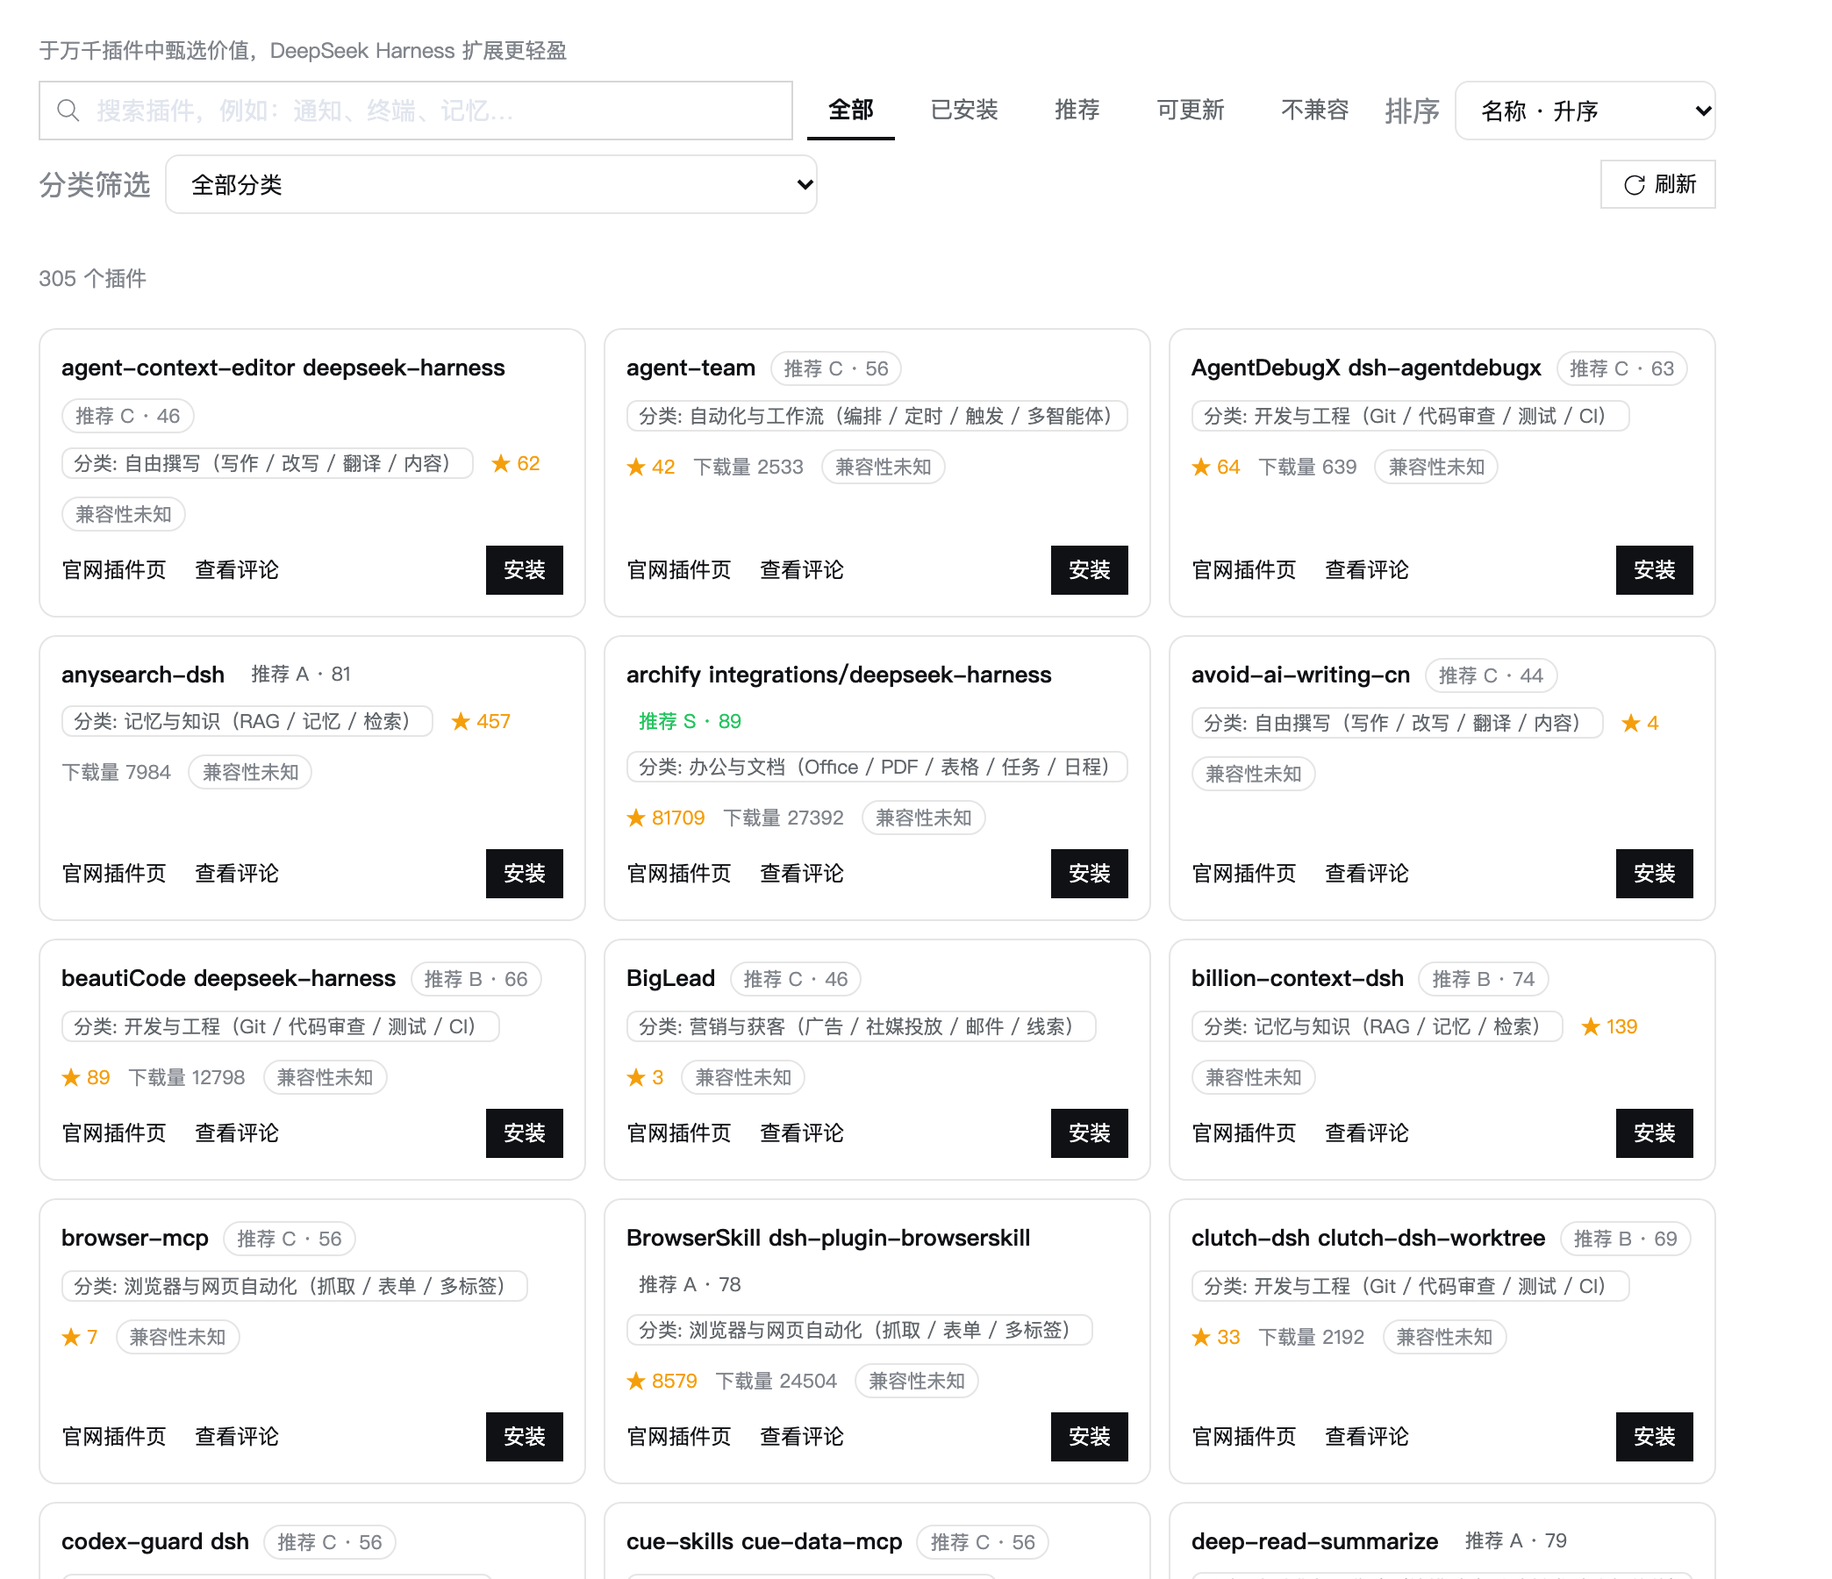
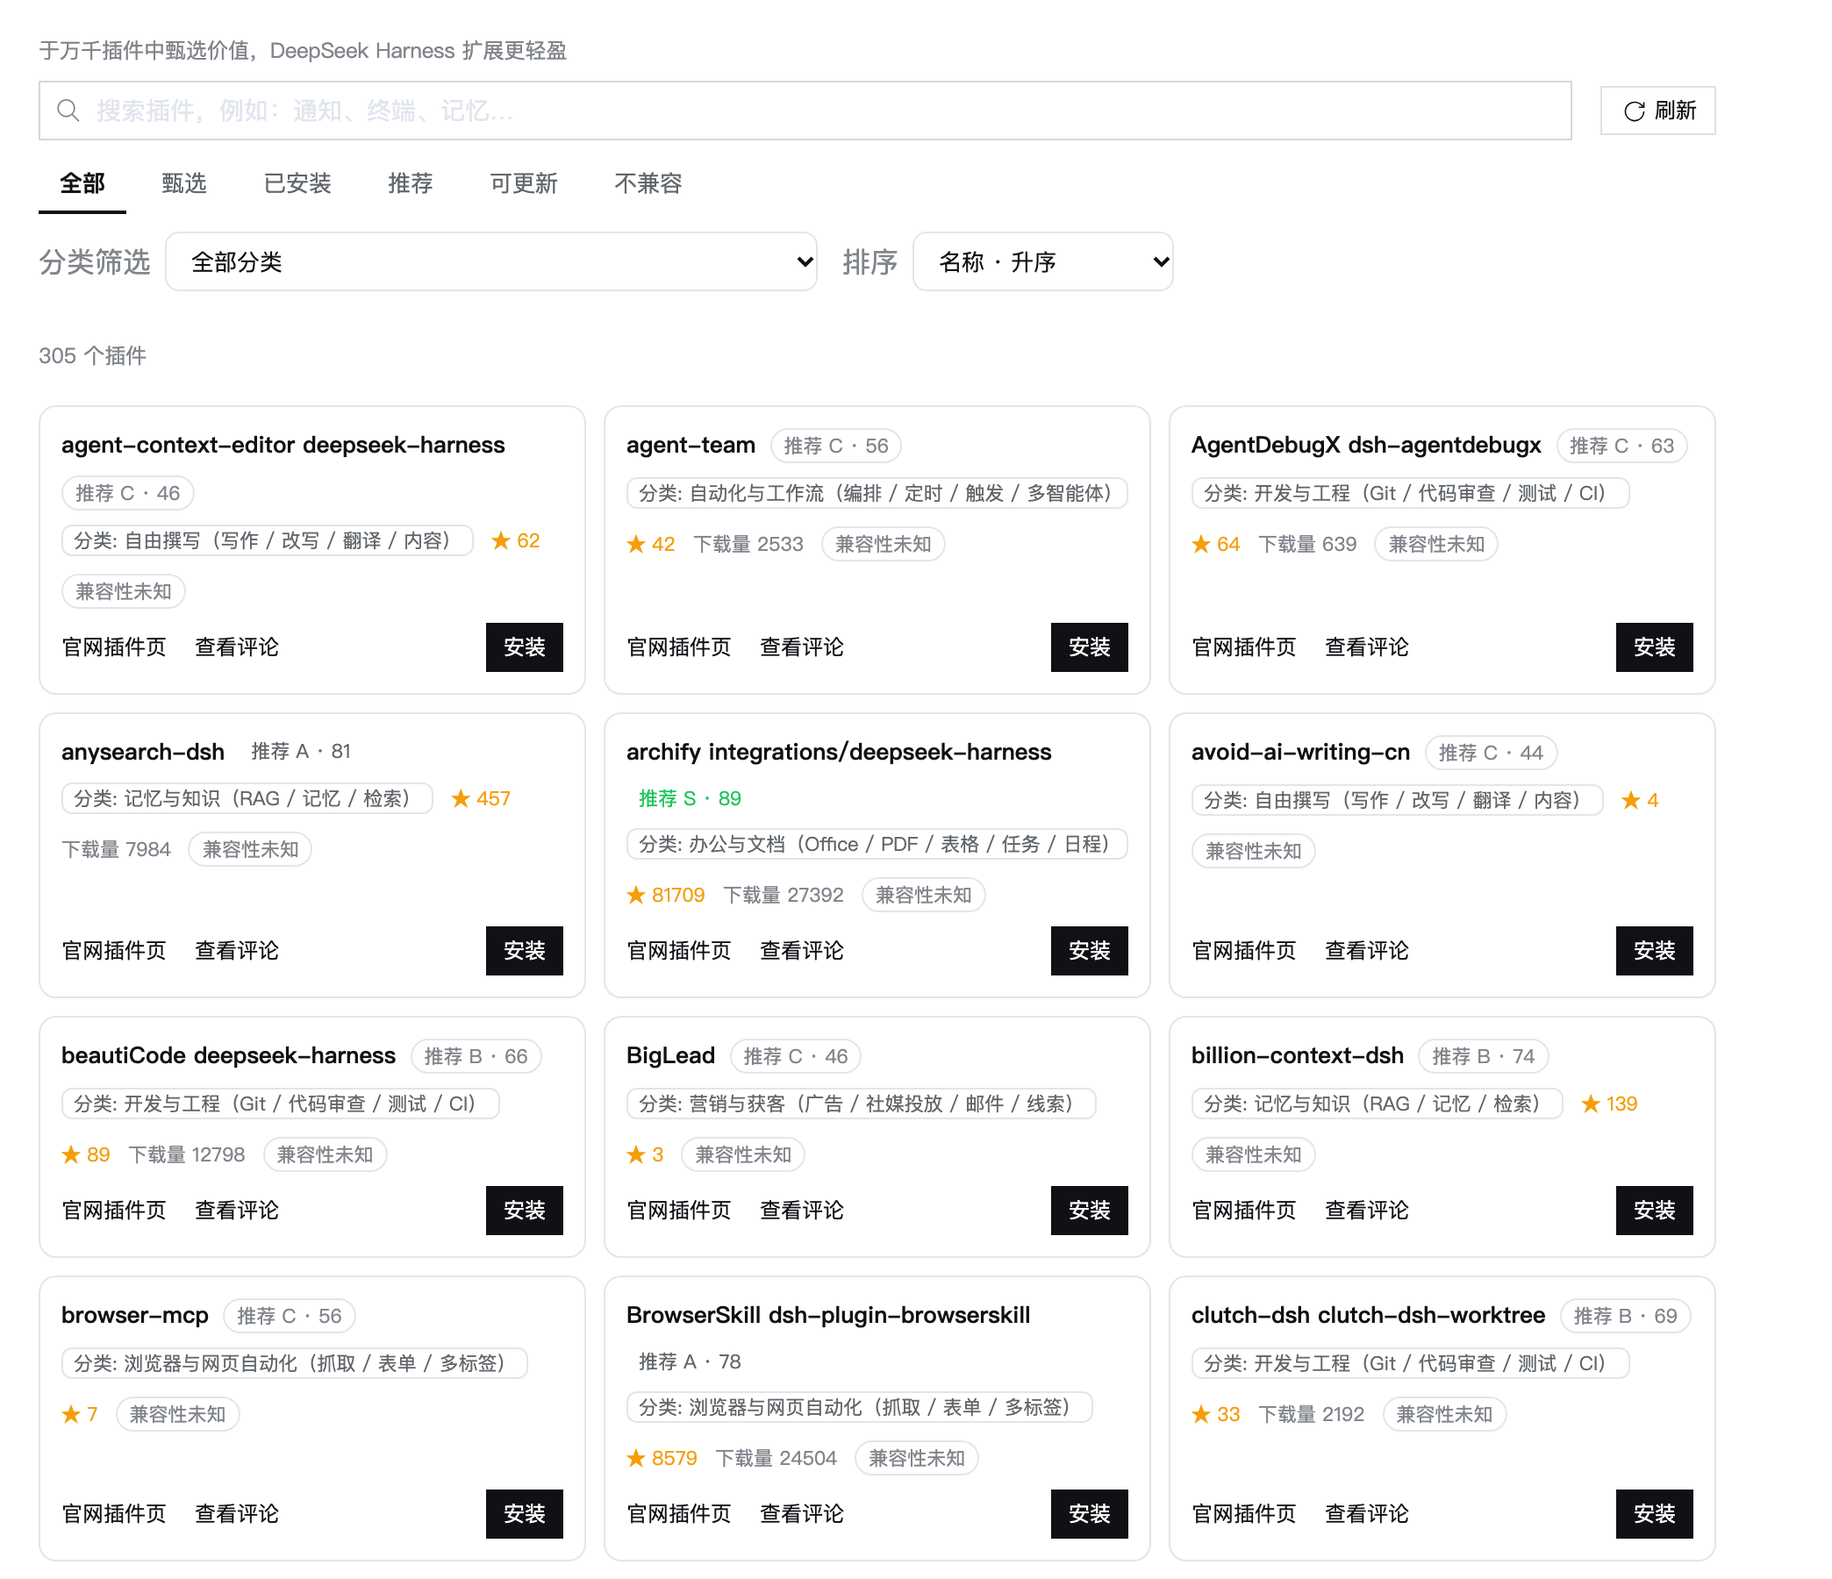
Promote the featured category to a chip and stop the toolbar from wrapping
Two layout requirements from the field. The site's front page lists categories as
chips with 甄选 pinned first, while the panel had it only inside a selector — so
the category the site features was invisible until you opened a dropdown.

- The FIRST entry of the published vocabulary is now a chip right after 「全部」,
  and it is a toggle sharing one state with the selector, so either entry explains
  the other. Promoting "the first entry" rather than hard-coding 甄选 means the
  site can move its featured category by reordering the vocabulary.
- The toolbar is three deliberate lines (search · chips · controls) instead of one
  wrapping flex row: at some widths the wrapping row pushed 「分类筛选」 onto a line
  of its own (measured: 分类筛选 top=88 vs 排序 top=46). The controls line is
  `flex-wrap:nowrap` and the chip line scrolls horizontally instead of wrapping.
- The screenshot probe now reports both selects' `top`, so the same-line
  requirement is measured rather than asserted in prose.

Rebuild before trusting the images: the probe renders the built bundle, and the
first verification run showed the previous layout because `src/` had been edited
without `npm run build`.

diff --git a/tests/client-market.test.ts b/tests/client-market.test.ts
@@ -1154,3 +1154,114 @@ describe('Discover — the category selector browses the site vocabulary', () =>
     expect(host.textContent).toContain('切到「全部」')
   })
 })
+
+describe('Discover — the featured category is a chip, and the controls share a line', () => {
+  /**
+   * Two layout requirements from the field:
+   *  1. the site's featured category (甄选, first in the published vocabulary)
+   *     must be visible WITHOUT opening a selector — the front page lists
+   *     categories as chips with 甄选 pinned first, so the panel promotes the
+   *     first vocabulary entry into the chip row right after 「全部」;
+   *  2. 「分类筛选」 and 「排序」 must sit on one line — a wrapping toolbar dropped
+   *     the category selector onto a line of its own at some widths.
+   */
+  const ROWS = [
+    { key: 'sumarilkkxx/dsh-atlas', name: 'dsh-atlas', owner: 'sumarilkkxx', category: 'curated', stars: 12 },
+    { key: 'alpha/dsh-spend', name: 'dsh-spend', owner: 'alpha', category: 'cost', stars: 9 },
+  ]
+  const TABLE = [
+    { id: 'curated', label: '甄选', labelEn: 'Featured', count: 2 },
+    { id: 'cost', label: '费用与额度', labelEn: 'Cost', count: 1 },
+  ]
+
+  function installStub(): void {
+    globalThis.fetch = (async (input: RequestInfo | URL, init?: RequestInit) => {
+      const url = String(input)
+      calls.push({ url, method: init?.method ?? 'GET' })
+      if (url.includes('/registry')) return json({ registry: { plugins: ROWS, count: ROWS.length, categories: TABLE } })
+      if (url.includes('/installed')) return json(INVENTORY)
+      if (url.includes('/updates')) return json([])
+      if (url.includes('/discovery-compatibility')) return json({ results: [] })
+      if (url.includes('/status')) {
+        return json({
+          boot: 'test-boot', version: '0.1.1', channel: 'stable', region: 'global', profile: 'web',
+          busy: false, progress: { active: false }, pnpm: { ok: true },
+          restart: { allowed: false, debugger: false, scheduled: false }, installed: [],
+        })
+      }
+      return json({ ok: true })
+    }) as typeof fetch
+  }
+
+  async function mountIn(language: 'zh' | 'en'): Promise<HTMLElement> {
+    installStub()
+    const dictionary = language === 'en' ? en : zh
+    const localeT = (key: string, params?: Record<string, string | number>): string => translate(dictionary, key, params)
+    const container = document.getElementById('host') as HTMLElement
+    root = createRoot(container)
+    root.render(createElement(MarketSection, {
+      t: localeT,
+      locale: {
+        register: () => undefined,
+        bind: () => localeT,
+        subscribe: () => () => undefined,
+        getSnapshot: () => ({ active: language }),
+      },
+      theme: { getTheme: () => ({ id: 'dark' }), setTheme: () => undefined },
+      themeStore: { subscribe: () => () => undefined, getSnapshot: () => ({ id: 'dark' }), getServerSnapshot: () => ({ id: 'dark' }) },
+    }))
+    await flush()
+    return container
+  }
+
+  /** The chip row, then the chip whose label matches. */
+  function chip(host: HTMLElement, label: string): HTMLButtonElement | undefined {
+    return [...host.querySelectorAll('button[aria-pressed]')]
+      .find(button => (button.textContent ?? '').trim() === label) as HTMLButtonElement | undefined
+  }
+
+  it('lists 甄选 second, right after 全部', async () => {
+    const host = await mountIn('zh')
+    const labels = [...host.querySelectorAll('[role="group"] button')].map(button => (button.textContent ?? '').trim())
+    expect(labels.slice(0, 3)).toEqual(['全部', '甄选', '已安装'])
+  })
+
+  it('localizes the featured chip and toggles the filter from it', async () => {
+    const host = await mountIn('en')
+    const featured = chip(host, 'Featured')
+    expect(featured).toBeDefined()
+    featured?.click()
+    await flush()
+    expect(cardTitles(host)).toEqual(['dsh-atlas'])
+    expect(chip(host, 'Featured')?.getAttribute('aria-pressed')).toBe('true')
+    // Clicking it again clears the filter (the chip is a toggle, not a one-way).
+    chip(host, 'Featured')?.click()
+    await flush()
+    expect(cardTitles(host).length).toBe(2)
+  })
+
+  it('keeps the chip and the selector in sync', async () => {
+    const host = await mountIn('zh')
+    const select = host.querySelector('select[aria-label="分类筛选"]') as HTMLSelectElement
+    selectOption(select, 'curated')
+    await flush()
+    expect(chip(host, '甄选')?.getAttribute('aria-pressed')).toBe('true')
+    // 「全部」 clears the category too — it is the "no filter" entry.
+    chip(host, '全部')?.click()
+    await flush()
+    expect((host.querySelector('select[aria-label="分类筛选"]') as HTMLSelectElement).value).toBe('')
+  })
+
+  it('puts 分类筛选 and 排序 on one non-wrapping line', async () => {
+    const host = await mountIn('zh')
+    const category = host.querySelector('select[aria-label="分类筛选"]')
+    const sort = host.querySelector('select[aria-label="排序"]') ?? host.querySelector('select[aria-label="Sort"]')
+    expect(category).not.toBeNull()
+    expect(sort).not.toBeNull()
+    // Same container, and that container is the one that must not wrap.
+    const line = category?.closest('[class*="toolbarControlsLine"]')
+    expect(line).not.toBeNull()
+    expect(line?.contains(sort)).toBe(true)
+    expect(line?.className).toContain('toolbarControlsLine')
+  })
+})

diff --git a/src/client/MarketSection.tsx b/src/client/MarketSection.tsx
@@ -587,24 +587,71 @@ function Toolbar(props: {
   children?: ReactNode
 }) {
   const { t, query, onQuery, placeholder, busy, onReload, filter, onFilter, recommended, sort, onSort, category, onCategory, categories, categoryCounts } = props
+  /*
+   * The site's own front page lists every category as a chip with 「甄选」 pinned
+   * first, so the panel promotes the FIRST published category to a chip right
+   * after 「全部」: the featured category is then visible without opening a
+   * selector, and the site can move the promotion by reordering its vocabulary.
+   * The selector still reaches the whole vocabulary.
+   */
+  const featured = categories?.[0]
+  const chip = (active: boolean) => (active ? `${css.tab} ${css.tabActive}` : css.tab)
   return (
     <div className={css.toolbar}>
-      <Input
-        className={css.search}
-        icon={<IconSearch size={14} />}
-        value={query}
-        placeholder={placeholder}
-        aria-label={placeholder}
-        onChange={event => onQuery(event.target.value)}
-      />
+      <div className={css.toolbarLine}>
+        <Input
+          className={css.search}
+          icon={<IconSearch size={14} />}
+          value={query}
+          placeholder={placeholder}
+          aria-label={placeholder}
+          onChange={event => onQuery(event.target.value)}
+        />
+        {props.children}
+        <span className={css.spacer} />
+        <Button
+          variant="outline"
+          size="sm"
+          icon={<IconRefresh size={13} />}
+          onClick={onReload}
+          disabled={busy}
+          title={busy ? t('busyWait') : t('reload')}
+        >
+          {t('reload')}
+        </Button>
+      </div>
       {filter !== undefined && onFilter !== undefined && (
-        <div className={css.row} role="group" aria-label={t('filterLabel')}>
-          {FILTERS.map(entry => (
+        <div className={`${css.toolbarLine} ${css.chipLine}`} role="group" aria-label={t('filterLabel')}>
+          {FILTERS.slice(0, 1).map(entry => (
+            <button
+              key={entry.id}
+              type="button"
+              aria-pressed={filter === entry.id && (category === undefined || category === '')}
+              className={chip(filter === entry.id && (category === undefined || category === ''))}
+              onClick={() => {
+                onCategory?.('')
+                onFilter(entry.id)
+              }}
+            >
+              {t(entry.label)}
+            </button>
+          ))}
+          {featured !== undefined && onCategory !== undefined && category !== undefined && (
+            <button
+              type="button"
+              aria-pressed={category === featured.id}
+              className={chip(category === featured.id)}
+              onClick={() => { onCategory(category === featured.id ? '' : featured.id) }}
+            >
+              {categoryEntryLabel(featured, props.english === true)}
+            </button>
+          )}
+          {FILTERS.slice(1).map(entry => (
             <button
               key={entry.id}
               type="button"
               aria-pressed={filter === entry.id}
-              className={filter === entry.id ? `${css.tab} ${css.tabActive}` : css.tab}
+              className={chip(filter === entry.id)}
               onClick={() => onFilter(entry.id)}
             >
               {t('fallbackLabel' in entry && recommended !== true ? entry.fallbackLabel : entry.label)}
@@ -612,23 +659,7 @@ function Toolbar(props: {
           ))}
         </div>
       )}
-      {sort !== undefined && onSort !== undefined && (
-        <label className={css.row}>
-          <span className={css.muted}>{t('sortLabel')}</span>
-          <select
-            className={css.select}
-            value={sort}
-            aria-label={t('sortLabel')}
-            onChange={event => onSort(event.target.value as SortKey)}
-          >
-            {SORTS.map(entry => (
-              <option key={entry.id} value={entry.id}>
-                {`${t(entry.field)} · ${t(entry.dir)}`}
-              </option>
-            ))}
-          </select>
-        </label>
-      )}
+      <div className={css.toolbarControlsLine}>
       {/*
         * The category selector is driven by the catalog's own vocabulary, in the
         * site's order (curated first): the panel never invents a category list, so
@@ -656,18 +687,24 @@ function Toolbar(props: {
           </select>
         </label>
       )}
-      {props.children}
-      <span className={css.spacer} />
-      <Button
-        variant="outline"
-        size="sm"
-        icon={<IconRefresh size={13} />}
-        onClick={onReload}
-        disabled={busy}
-        title={busy ? t('busyWait') : t('reload')}
-      >
-        {t('reload')}
-      </Button>
+      {sort !== undefined && onSort !== undefined && (
+        <label className={css.row}>
+          <span className={css.muted}>{t('sortLabel')}</span>
+          <select
+            className={css.select}
+            value={sort}
+            aria-label={t('sortLabel')}
+            onChange={event => onSort(event.target.value as SortKey)}
+          >
+            {SORTS.map(entry => (
+              <option key={entry.id} value={entry.id}>
+                {`${t(entry.field)} · ${t(entry.dir)}`}
+              </option>
+            ))}
+          </select>
+        </label>
+      )}
+      </div>
     </div>
   )
 }

diff --git a/src/client/Galaxy.module.css b/src/client/Galaxy.module.css
@@ -34,7 +34,15 @@
 .tab:focus-visible{outline:2px solid var(--dsh-accent,var(--dsw-alias-brand-primary,#4f6ef7));outline-offset:-2px}
 .tabActive,.tabOn{color:var(--dsh-accent,var(--dsw-alias-brand-primary,#4f6ef7));border-bottom-color:var(--dsh-accent,var(--dsw-alias-brand-primary,#4f6ef7));font-weight:600}
 
-.toolbar{display:flex;align-items:center;gap:8px;flex-wrap:wrap;padding:8px 0}
+/* Three deliberate lines instead of one wrapping row: search, the chips, then the
+ * 分类筛选 + 排序 controls. A wrapping flex row dropped the controls onto a line of
+ * their own at some widths, which is what "keep them on the same line" rules out. */
+.toolbar{display:flex;flex-direction:column;align-items:stretch;gap:8px;padding:8px 0}
+.toolbarLine{display:flex;align-items:center;gap:8px;min-width:0;flex-wrap:nowrap}
+/* Chips may outgrow the dialog once the site adds categories; scroll rather than
+ * wrap so the row height stays predictable. */
+.chipLine{overflow-x:auto;padding-bottom:2px}
+.toolbarControlsLine{display:flex;align-items:center;gap:14px;flex-wrap:nowrap;white-space:nowrap}
 .toolbarRow{display:flex;align-items:center;gap:8px;min-width:0;flex:1}
 .toolbarSpacer{margin-left:auto}
 .search{flex:1;min-width:160px}

diff --git a/docs/client-contract.md b/docs/client-contract.md
@@ -334,6 +334,19 @@ monorepo 条目在目录里是 `repo#subpath`（如 `archify#integrations/deepse
 | 选中的是 **slug**，不是标签 | 站点可以给分类改标签而不动行数据 |
 | 分类筛选与「状态筛选」「搜索」叠加：先按分类，再按状态，再按搜索 | 三者是正交维度 |
 | 「推荐」是固定榜单：分类过滤同样生效，结果为空时提示"切到「全部」" | 榜单只收录计分条目（甄选类不计分），不假装有内容 |
+| **词表首个分类会被提成 chip**，紧跟在「全部」之后（当前 = 甄选） | 官网首页把分类做成 chips 且甄选恒定置顶；放到下拉里等于"看不见"。官网调整词表顺序，chip 自动跟随 |
+| chip 与下拉是同一个状态：chip 点击是开关（再点一次清除），「全部」也会清除分类 | 两个入口必须可互相解释，不能各说各话 |
+
+**工具栏是三行**（`.toolbar` 为纵向 flex），不是一条会换行的横排：
+
+| 行 | 内容 | 约束 |
+|---|---|---|
+| 1 | 搜索框 · 视图自带控件 · 刷新 | 搜索框 `flex:1` |
+| 2 | 状态/分类 chips（`role="group"`） | `overflow-x:auto` 横向滚动，**不换行**（官网分类变多时行高仍稳定） |
+| 3 | **分类筛选 + 排序** | `.toolbarControlsLine`，`flex-wrap:nowrap` + `white-space:nowrap`，两者**必须同行** |
+
+> 原因：`.toolbar` 原先是 `flex-wrap:wrap` 的横排，某些宽度下「分类筛选」会被挤到单独一行（实测 `分类筛选 top=88 / 排序 top=46`）。
+> 布局探针（`npm run screenshots` 的 CDP 探测）会把两个 select 的 `getBoundingClientRect().top` 一起报出来，改坏了会直接可见。
 
 ### 6.10 排序菜单里没有"推荐"
 

diff --git a/README.md b/README.md
@@ -47,7 +47,7 @@
 | 能力 | 说明 |
 |---|---|
 | 五个筛选 | **全部 / 推荐 / 已安装 / 可更新 / 不兼容**，都是同一套卡片网格；筛选是视图，不是排序 |
-| 分类筛选 | 工具栏「分类筛选」由**官网目录的分类词表**生成（顺序与标签同官网，数字按目录实时统计）：官网新增分类（如「甄选」）面板自动出现，可与状态筛选、搜索叠加 |
+| 分类筛选 | **官网词表的首个分类（当前=甄选）直接作为 chip 显示在「全部」之后**，一眼可见；完整词表在「分类筛选」下拉里（顺序/标签同官网，数字按目录实时统计，可与状态筛选、搜索叠加）。官网新增或改名分类，面板自动跟随 |
 | 推荐视图 | 官网 `ranking.top` 前 20（跳过已安装自动补位），每张卡片印名次与分档（S/A/B/C）、评分与"为什么推荐"（编辑推荐条目带 🖊 与理由） |
 | 搜索 | 名称 / npm 包名 / 分类（标签与 slug 都认）/ 描述 / 作者，同时认**官网展示名**与原始包名 |
 | 排序 | 名称 / Star 数 / npm 下载量 / 发布时间，各升降序（推荐视图按名次，不排序） |
